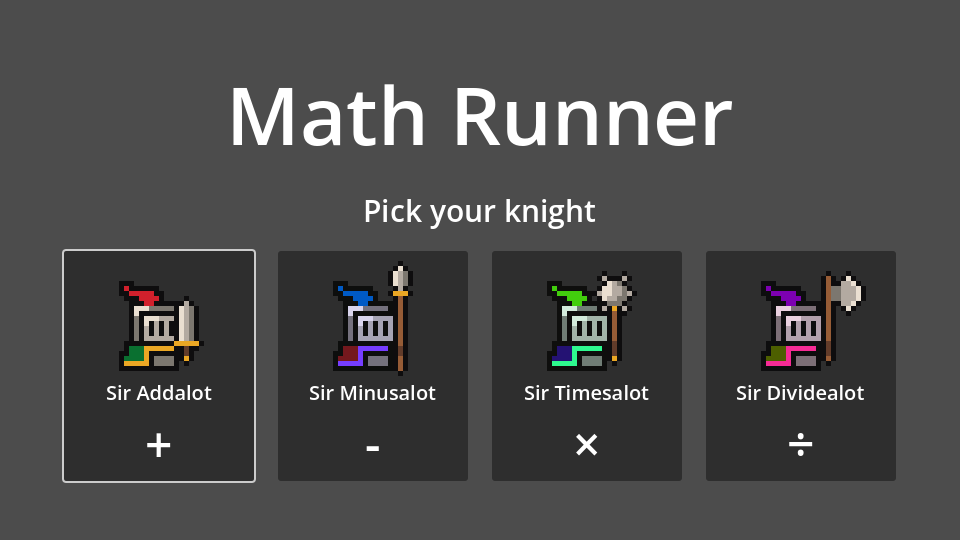
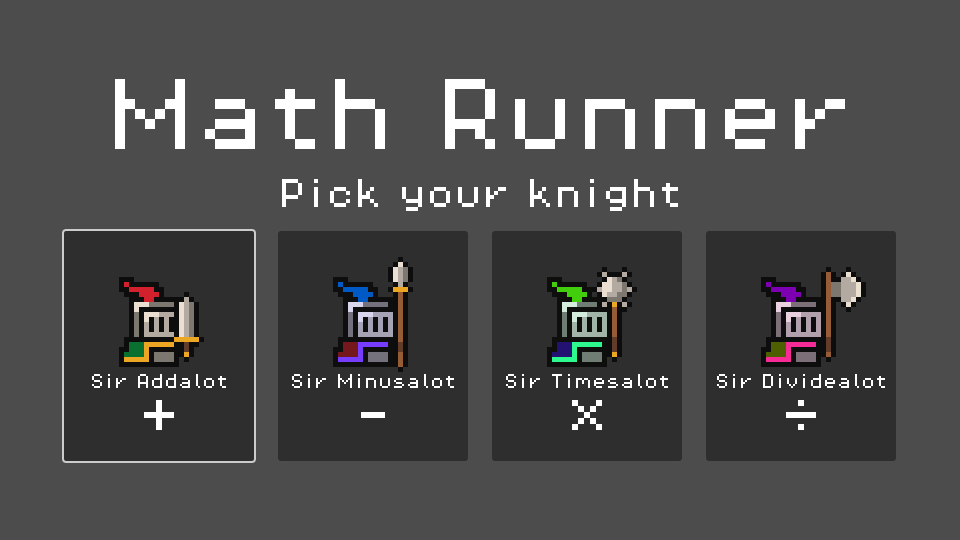
Use Jumpy Boi's pixel font
Pixel Operator 8 (CC0 1.0, per the licence in the font file), set as the
project's default font in project.godot, so every Label and Button uses
it. Imported without antialiasing, hinting or subpixel positioning so
the pixels stay sharp.

It is wider than Godot's default font, so the text sizes changed to
multiples of 8, where an 8 px pixel font draws crisply: knight names
16, score 32 (now right-aligned so it stays on screen), problem and
answers 48, Game Over 48, and 16 on the scoreboard rows and buttons.
The board title wraps when it gets long ("Your place - Multiplication").
README screenshots retaken.

Changed region(s): [[0.0625, 0.5037, 0.9375, 0.9185], [0.0625, 0.3259, 0.9375, 0.7704], [0.0938, 0.1481, 0.9062, 0.2963]]

diff --git a/README.md b/README.md
@@ -76,6 +76,7 @@ game started; see the scoreboard repo for how.
 - Game inspired by Chrome's dinosaur game
 - The knight: "Camelot" by [analogStudios_](https://analogstudios.itch.io/camelot), CC0, as repackaged in [Brackeys' Platformer Bundle](https://brackeysgames.itch.io/brackeys-platformer-bundle). It is the same knight as in [Jumpy Boi](https://github.com/fredsoe-io/jumpy-boi). The four knight colors are made in the game with a shader
 - The weapons, the ground and the app icon are made for this game by `tools/make_assets.py`
+- Font: Pixel Operator 8 by Jayvee Enaguas (HarvettFox96), CC0 1.0 (it says so in the font file), the same font as in Jumpy Boi
 - Correct and wrong answer sounds: recorded by Adam
 - Game over sound: recorded by Adam & Lilli for [Jumpy Boi](https://github.com/fredsoe-io/jumpy-boi), where it is the knight's death sound
 
@@ -87,6 +88,7 @@ game started; see the scoreboard repo for how.
   - A game over sound, from Jumpy Boi
   - No jump sound any more: it was long and played over the right and wrong answer sounds
   - A scoreboard for each knight
+  - The pixel font from Jumpy Boi
 - 0.2
   - Main menu with four dinos: plus, minus, multiply and divide
   - The correct answer explodes when you pick it
@@ -98,5 +100,5 @@ game started; see the scoreboard repo for how.
 ## License
 
 - The code and the generated art are released under the [MIT license](LICENSE).
-- The knight sprite (`assets/images/knight.png`) is CC0, see Credits.
+- The knight sprite (`assets/images/knight.png`) and the font (`assets/fonts/PixelOperator8.ttf`) are CC0, see Credits.
 - The sounds in `assets/sounds/` were recorded by Adam & Lilli. They belong to them and are not licensed for reuse.
